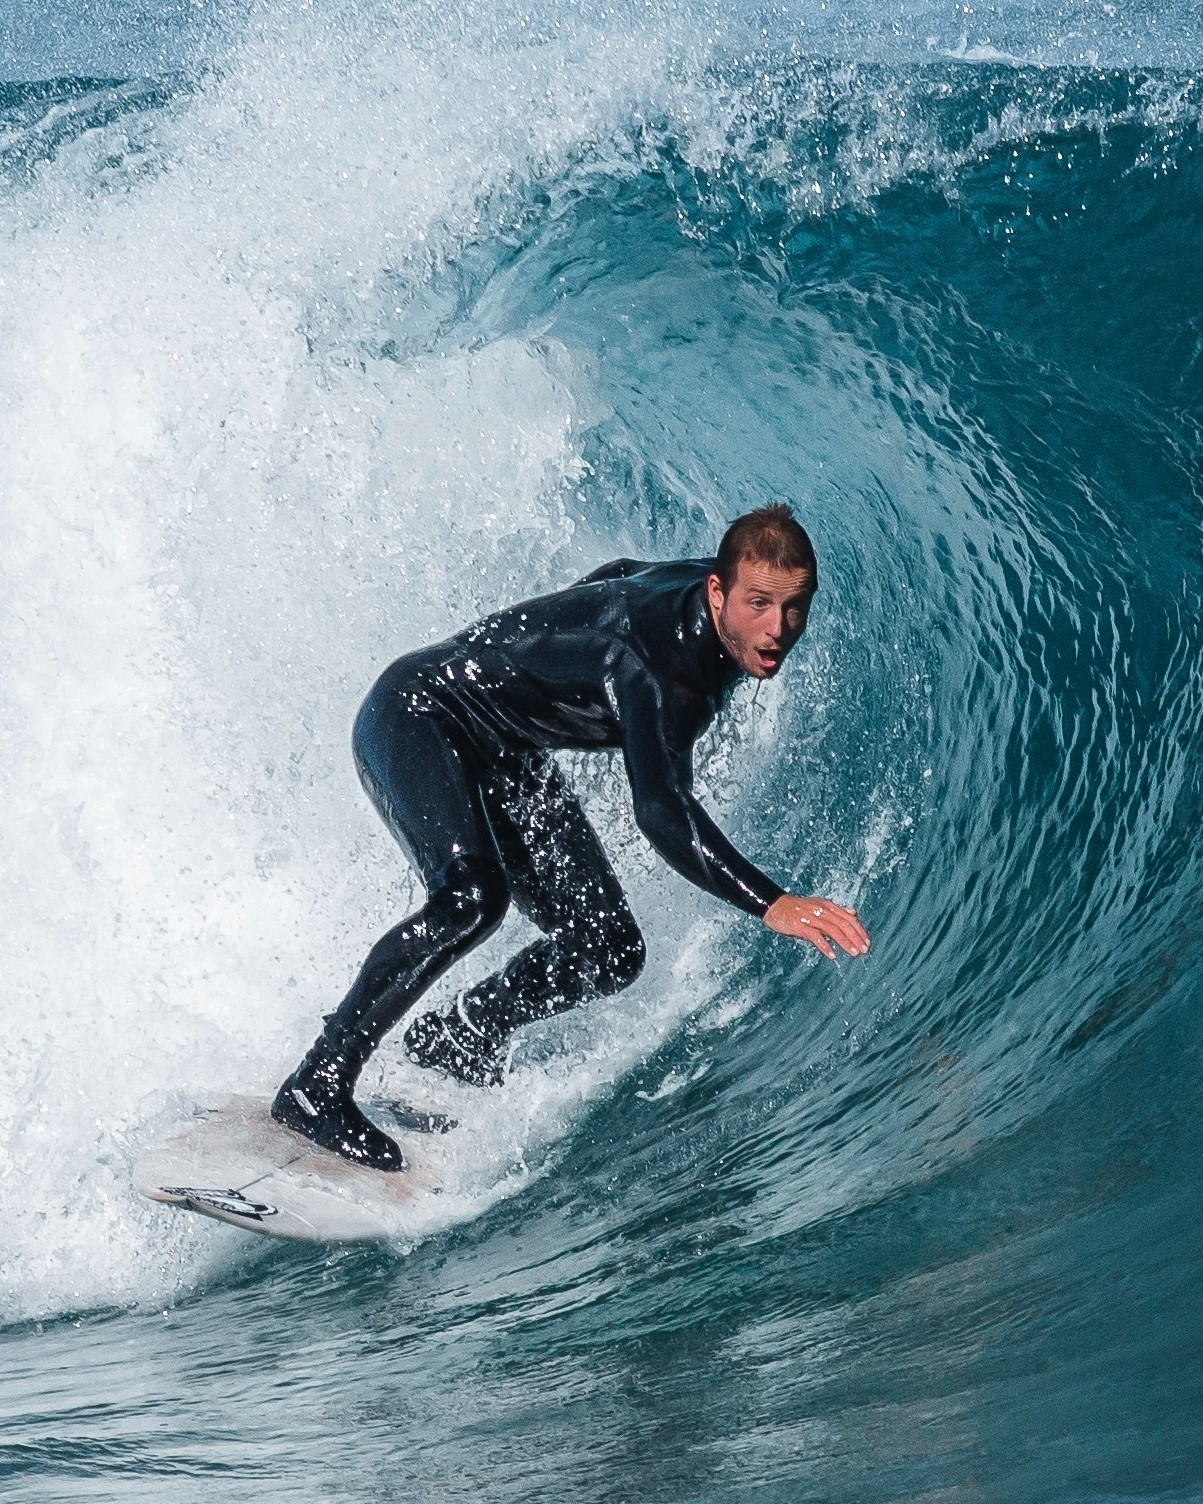
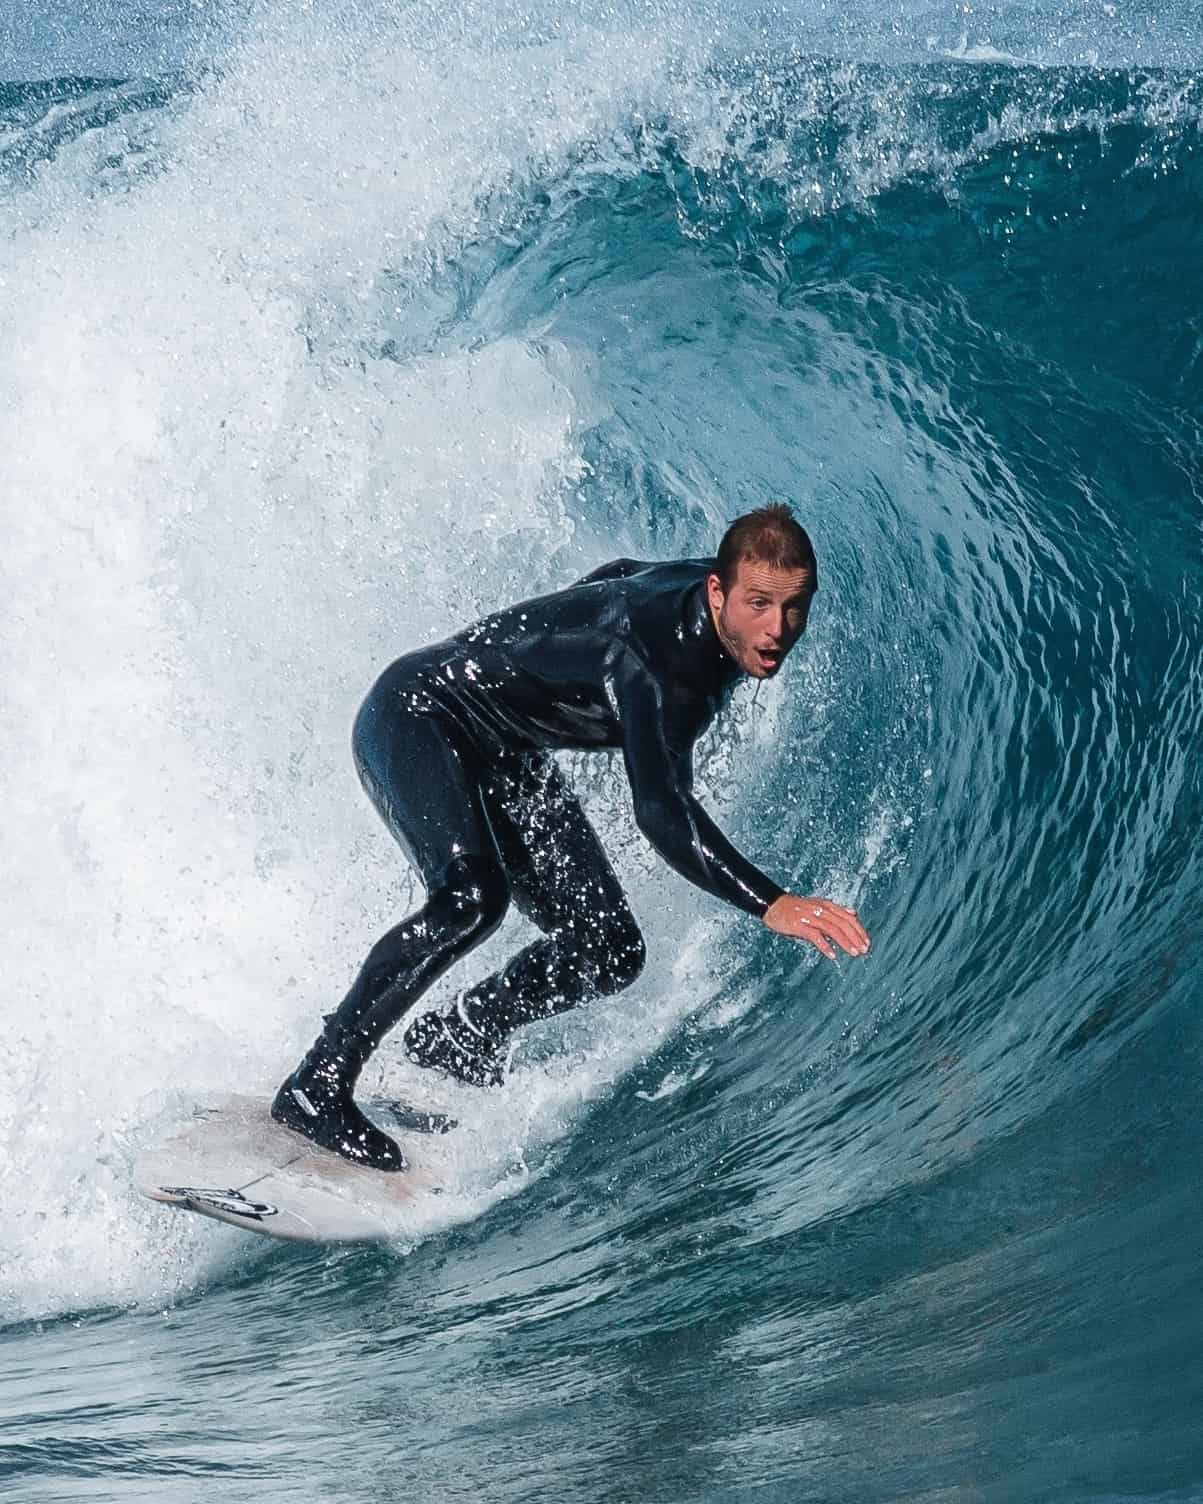
image upload

diff --git a/src/components/HeroSection/HeroSection.css b/src/components/HeroSection/HeroSection.css
@@ -1,5 +1,5 @@
 .herosection {
-  background-image: url('../picture/pexels-marc-roy-1667018.jpg');
+  background-image: url('../picture/pexels-marc-roy-16670182.jpg');
 
   width: 100%;
   min-height: 60vh;
